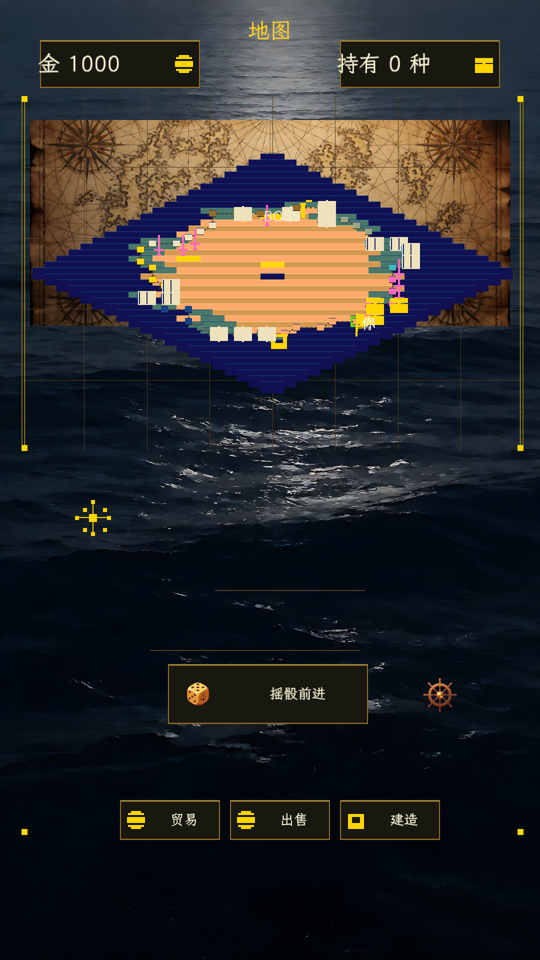
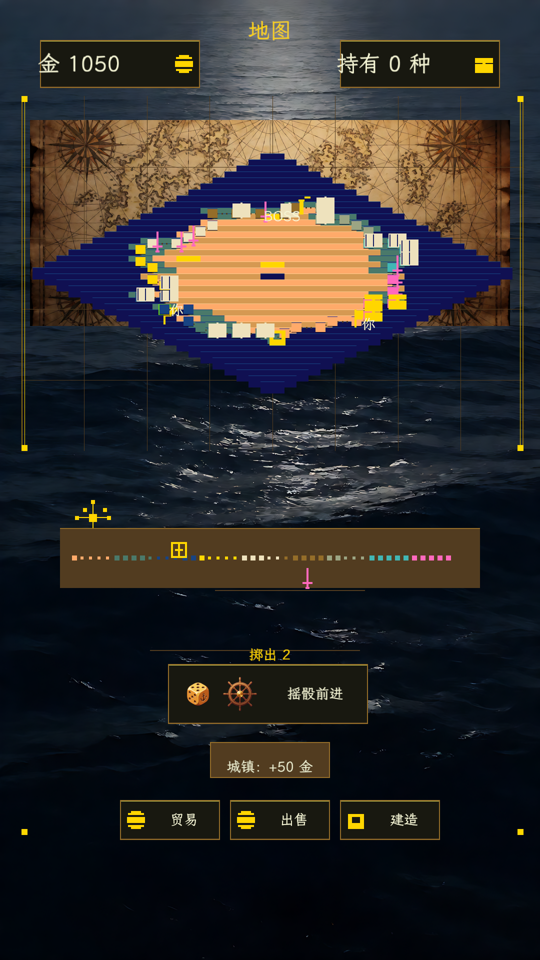
ui: S19.7 主地图版面整改（D1~D5 全清）+ 9 分区色板收敛单一事实源
D1 画布贴合：新增航程条（main_map.voyage_bar = 赛道摊平成进度条：brass_dark 底板 + 黄铜槽 + 每格分区色点 + 玩家罗盘 + BOSS 剑标），填掉 y900~1300 中段空区（v3.5 §3 处方：进度条 + 目的地标记）。

D2 赛道可读性：落格标记 14×14→20×20、类型图标 22→28。D3 提示条底板：brass_dark 底板 + 黄铜边框（宽度随文字自适应），中心移到 y1520（避开摇骰按钮下沿 1448 与命令盘 1600）。D4 骰子按钮构图：骰子(360,1352)+舵轮(444,1352) 相邻成组，标签(536,1328,190,120)。D5 出图带状态：ti-engine 新增 --spin=N（seed=42 可复现）+ GameApp::hold_board_toast()（提示条按帧衰减，截图捕获帧受异步贴图加载影响 ≫120 帧 ⇒ 出图里已过期）。

根因（排障实录）：提示条'没画'是误判 —— 底板色 panel_warm = RGB565(24,24,16) 与深海底图同色 ⇒ 底板等于隐形；改 brass_dark(82,60,32) 才真正生效（航程条同病同治）。附带：9 分区色板 GROUP_TOKENS 两处重复 → chrome::group_color_token 单一事实源；提示条绘制从 render_track(101行) 拆出 render_board_toast。坐标表 08_layout_design.md 同步 3 行 + gate 22 项 0 failure

diff --git a/crates/ti-app/src/scenes/main_map.rs b/crates/ti-app/src/scenes/main_map.rs
@@ -426,6 +426,9 @@ impl Scene for MainMapScene {
         // S19：环岛赛道（路径连线 + 空间标记 + 骰子数 + 落格提示条）
         render_track(host, &layout, gw, &mut entity_texts);
 
+        // S19.7：航程条（赛道摊平成进度条：玩家位置 + BOSS 目的地 + 特殊格标记）
+        chrome::voyage_bar(host, "main_map");
+
         // 第二遍：实体标签（28px 提示档，QA142 全部文本最上层）
         for (x, y, lbl) in &entity_texts {
             host.draw_hint_text(lbl, *x, *y, chrome::COLOR_TEXT_ON_PARCH);
@@ -446,17 +449,8 @@ fn render_track(
     entity_texts: &mut Vec<(i32, i32, &str)>,
 ) {
     // 9 分区配色（对齐原版地形类别码 1..9；theme 令牌缺失 = 金暖色兜底）
-    const GROUP_TOKENS: [&str; 9] = [
-        "land_sand",
-        "reef",
-        "sea_shallow",
-        "gold_warm",
-        "moon_pale",
-        "brass",
-        "secondary",
-        "hilite",
-        "danger",
-    ];
+    // S19.7 D2 收敛：分区→令牌表单一事实源 = `chrome::group_color_token`（此前本文件与
+    // `chrome.rs` 各抄一份 ⇒ 改配色必漏一处）。
     let spaces = host.board_spaces();
     if spaces.len() < 2 {
         return;
@@ -464,8 +458,7 @@ fn render_track(
     let (tw, th) = chrome::iso_tile_fit(layout, gw);
     let theme = host.theme().clone();
     let group_color = |g: u8| -> u16 {
-        let idx = ((usize::from(g)).saturating_sub(1)).min(GROUP_TOKENS.len() - 1);
-        theme.by_name(GROUP_TOKENS[idx]).unwrap_or(chrome::COLOR_GOLD_WARM)
+        theme.by_name(chrome::group_color_token(g)).unwrap_or(chrome::COLOR_GOLD_WARM)
     };
     // 路径连线（先画线，再画标记，标记盖在线上）
     let centers: Vec<(i32, i32)> = spaces
@@ -493,13 +486,13 @@ fn render_track(
             );
         }
     }
-    // 空间标记 + 特殊格图标
+    // 空间标记 + 特殊格图标（S19.7 D2：标记 14×14 → 20×20、图标 22 → 28，提升可读性）
     for (i, sp) in spaces.iter().enumerate() {
         let (cx, cy) = centers[i];
         let color = group_color(sp.group);
-        host.fill_rect(cx - 7, cy - 7, 14, 14, color);
-        host.fill_rect(cx - 7, cy - 7, 14, 1, chrome::COLOR_BEVEL_HI);
-        host.fill_rect(cx - 7, cy + 6, 14, 1, chrome::COLOR_BEVEL_SHADOW);
+        host.fill_rect(cx - 10, cy - 10, 20, 20, color);
+        host.fill_rect(cx - 10, cy - 10, 20, 1, chrome::COLOR_BEVEL_HI);
+        host.fill_rect(cx - 10, cy + 9, 20, 1, chrome::COLOR_BEVEL_SHADOW);
         let icon = match sp.kind {
             SpaceKind::Start => Some(("flag", chrome::COLOR_GOLD_WARM)),
             SpaceKind::Port => Some(("beacon", chrome::COLOR_GOLD_WARM)),
@@ -511,7 +504,7 @@ fn render_track(
             SpaceKind::Plain => None,
         };
         if let Some((name, tint)) = icon {
-            chrome::entity_icon(host, name, cx - 11, cy - 23, 22, tint);
+            chrome::entity_icon(host, name, cx - 14, cy - 30, 28, tint);
         }
         // BOSS / 起点 标签（全部文本最上层，QA142）
         match sp.kind {
@@ -534,10 +527,33 @@ fn render_track(
         host.draw_hint_text(&roll_str, rx, 1296, chrome::COLOR_GOLD_WARM);
     }
     // 落格提示条（按钮下方，`board_toast` 过期 = `None`）
-    if let Some(toast) = host.board_toast() {
-        let tx = 540 - host.shell().hint_text_width_px(&toast) / 2;
-        host.draw_hint_text(&toast, tx, 1470, chrome::COLOR_TEXT_ON_PARCH);
-    }
+    render_board_toast(host);
+}
+
+/// 落格提示条（S19.7 D3）：加**底板**（`brass_dark` + 黄铜边）——原实现直接画字飘在海面上，
+/// 对比度不足（其它 HUD 元素都有底板）；底板宽度按文字宽度自适应，8pt 栅格对齐。
+/// 纵向位置 1520（面板 1484..1556）：在摇骰按钮下沿 1448 与命令盘上沿 1600 之间，不重叠。
+fn render_board_toast(host: &mut dyn SceneHost) {
+    let Some(toast) = host.board_toast() else {
+        return;
+    };
+    let tw = host.shell().hint_text_width_px(&toast);
+    let pad = 24;
+    let panel_w = (tw + pad * 2).max(240);
+    let panel_h = 72;
+    let px = 540 - panel_w / 2;
+    let py = 1520 - panel_h / 2;
+    let theme = host.theme().clone();
+    // 底板用 `brass_dark`（`panel_warm` 在深海底上≈隐形 —— RGB565 (24,24,16) 与底图同色）
+    let panel = theme.by_name("brass_dark").unwrap_or(chrome::COLOR_GOLD_WARM);
+    let brass = theme.by_name("brass").unwrap_or(chrome::COLOR_GOLD_WARM);
+    host.fill_rect(px, py, panel_w, panel_h, panel);
+    host.fill_rect(px, py, panel_w, 2, brass);
+    host.fill_rect(px, py + panel_h - 2, panel_w, 2, brass);
+    host.fill_rect(px, py, 2, panel_h, brass);
+    host.fill_rect(px + panel_w - 2, py, 2, panel_h, brass);
+    let tx = 540 - tw / 2;
+    host.draw_hint_text(&toast, tx, 1520, chrome::COLOR_TEXT_ON_PARCH);
 }
 
 /// S18.9：等距棋盘绘制 —— **按地形取色**（`assets/data/terrain.json` 数据 → theme 令牌）。

diff --git a/crates/ti-app/src/scenes/chrome.rs b/crates/ti-app/src/scenes/chrome.rs
@@ -18,6 +18,7 @@ use ti_render::theme::Theme;
 
 use crate::scenes::{RenderHost, SceneHost};
 use ti_core::data::{IconDef, Primitive, icon_ids, ui_icons};
+use ti_core::rules::board::SpaceKind;
 
 // === 颜色常量重导出（从 Theme 默认值，兼容旧导入路径） ===
 
@@ -177,6 +178,8 @@ pub mod keys {
     pub const DECK_BUILD: &str = "deck_build";
     /// v3 「摇骰前进」主操作按钮（extra = `main_map.deck_spin`，`progression.md` §环岛赛道）。
     pub const DECK_SPIN: &str = "deck_spin";
+    /// v3 航程条矩形键（extra = `main_map.voyage_bar`，S19.7 航程进度条）。
+    pub const VOYAGE_BAR: &str = "voyage_bar";
     /// v2 HUD 经济按钮「贸易」矩形键（extra = `main_map.hud_trade`）。
     pub const HUD_TRADE: &str = "hud_trade";
     /// v2 HUD 经济按钮「出售」矩形键（extra = `main_map.hud_sell`）。
@@ -305,6 +308,86 @@ pub fn world_canvas_frame(host: &mut dyn SceneHost, scene_id: &str) {
     }
     let theme = host.theme().clone();
     with_canvas(host, |c| ti_render::shell::world_canvas_frame(c, &theme, rc.x, rc.y, rc.w, rc.h));
+}
+
+/// 分区号 → 主题色令牌（9 分区配色，对齐原版地形类别码 1..9；`legacy/docs/facts/map.md` F-308）。
+///
+/// 单一事实源（S19.7 D2 收敛）：赛道标记（`main_map.rs`）与航程条（`chrome::voyage_bar`）共用本表
+/// （此前两处各抄一份 ⇒ 改配色必漏一处）。
+#[must_use]
+pub fn group_color_token(group: u8) -> &'static str {
+    const TOKENS: [&str; 9] = [
+        "land_sand",
+        "reef",
+        "sea_shallow",
+        "gold_warm",
+        "moon_pale",
+        "brass",
+        "secondary",
+        "hilite",
+        "danger",
+    ];
+    let i = (usize::from(group).saturating_sub(1)).min(TOKENS.len() - 1);
+    TOKENS[i]
+}
+
+/// S19.7 航程条（`main_map.voyage_bar`）：把环岛赛道**摊平成一条进度条**，
+/// 显示玩家在岛上的位置 + BOSS 目的地 + 特殊格标记。
+///
+/// 业务依据（`docs/business/progression.md` §落格节奏 / §BOSS 触发规则）：
+/// 赛道 = 岛屿外环的有序空间序列；本条 = 「绕岛进度」的可视化载体
+/// （v3.5 §3「空出来的下方空间 → 放航程条（进度条 + 目的地标记）」）。
+///
+/// 画法：底板（`brass_dark`，`panel_warm` 在深海底上隐形）+ 一条黄铜槽 + 每格一个小点（按分区色）+
+/// 玩家标记（`compass` 图标，暖金）+ BOSS 标记（`sword` 图标，danger 色）。
+/// 无赛道（`board_spaces` 空）/ 键缺失 = 不画。
+pub fn voyage_bar(host: &mut dyn SceneHost, scene_id: &str) {
+    let layout = scene_layout(scene_id);
+    let Some(rect) = layout.extra.get(keys::VOYAGE_BAR) else {
+        return;
+    };
+    if rect.w <= 0 || rect.h <= 0 {
+        return;
+    }
+    let spaces = host.board_spaces();
+    if spaces.len() < 2 {
+        return;
+    }
+    let count = i32::try_from(spaces.len()).unwrap_or(0);
+    let player_idx = i32::try_from(host.board_index()).unwrap_or(0).min(count - 1);
+    let theme = host.theme().clone();
+    // 底板用 `brass_dark`（`panel_warm` 在深海底上≈隐形 —— RGB565 (24,24,16) 与底图同色）
+    let panel = theme.by_name("brass_dark").unwrap_or(COLOR_GOLD_WARM);
+    let brass = theme.by_name("brass").unwrap_or(COLOR_GOLD_WARM);
+    let brass_dark = theme.by_name("brass_dark").unwrap_or(COLOR_GOLD_WARM);
+    let danger = crate::menu_shell::COLOR_DANGER;
+
+    // 底板 + 槽（8pt 栅格：x/y/w/h 已整除）
+    host.fill_rect(rect.x, rect.y, rect.w, rect.h, panel);
+    host.fill_rect(rect.x, rect.y, rect.w, 2, brass);
+    host.fill_rect(rect.x, rect.y + rect.h - 2, rect.w, 2, brass_dark);
+    let track_y = rect.y + rect.h / 2;
+    let pad = 24;
+    let inner_w = rect.w - pad * 2;
+    host.fill_rect(rect.x + pad, track_y - 3, inner_w, 6, brass_dark);
+
+    // 每格一点（按分区色，特殊格加亮）
+    let step = inner_w / count.max(1);
+    for (i, sp) in spaces.iter().enumerate() {
+        let x = rect.x + pad + i32::try_from(i).unwrap_or(0) * step;
+        let c = theme.by_name(group_color_token(sp.group)).unwrap_or(COLOR_GOLD_WARM);
+        let special = !matches!(sp.kind, SpaceKind::Plain);
+        let dot = if special { 10 } else { 6 };
+        host.fill_rect(x, track_y - dot / 2, dot, dot, c);
+    }
+
+    // 玩家标记（暖金 compass）+ BOSS 标记（danger sword）
+    let player_x = rect.x + pad + player_idx * step;
+    entity_icon(host, "compass", player_x - 14, track_y - 40, 28, COLOR_GOLD_WARM);
+    if let Some(boss_i) = spaces.iter().position(|s| s.kind == SpaceKind::Boss) {
+        let boss_x = rect.x + pad + i32::try_from(boss_i).unwrap_or(0) * step;
+        entity_icon(host, "sword", boss_x - 12, track_y + 14, 24, danger);
+    }
 }
 
 /// v3 底部命令盘按钮（`main_map`）：读 `<key>` 矩形（`deck_trade`/`deck_sell`/`deck_build`），

diff --git a/crates/ti-engine/src/bin/treasure_bevy.rs b/crates/ti-engine/src/bin/treasure_bevy.rs
@@ -593,10 +593,27 @@ fn main() {
         .skip(1)
         .find_map(|a| a.strip_prefix("--scene=").map(str::to_owned))
         .unwrap_or_else(|| "index".to_owned());
+    // S19.7 D5：出图带状态（`--spin=N`）—— 摇 N 次骰后再截图 ⇒ 落格提示条 / 航程条可见
+    // （静态出图不含运行时状态，提示条此前无出图证据）。
+    let spin_n = std::env::args()
+        .skip(1)
+        .find_map(|a| a.strip_prefix("--spin=").and_then(|v| v.parse::<u32>().ok()))
+        .unwrap_or(0);
     let mut game = GameApp::with_upload_mode(WIN_W as f32, WIN_H as f32, UploadMode::Partial);
     load_resources(&mut game);
     if scene_id != "index" {
         ti_app::forward_nav::navigate(&mut game, &scene_id);
+    }
+    if spin_n > 0 {
+        // 固定种子（同 S18.4 selftest 口径 seed=42）⇒ 出图可复现（否则每次落点不同，
+        // 可能落在无事件的普通格 ⇒ 提示条时有时无，验收证据不稳定）。
+        game.set_rng_seed(42);
+        for _ in 0..spin_n {
+            game.handle(ti_app::GameInput::Spin);
+        }
+        // S19.7 D5：提示条按帧衰减，而离屏截图的实际捕获帧受贴图异步加载影响（≫120 帧）
+        // ⇒ 出图里提示条已过期。这里顶住衰减，保证出图含提示条（验收证据）。
+        game.hold_board_toast();
     }
     if !selftest {
         // S18.7a: live path = draw list (Bevy entities); the scene code is unchanged.

diff --git a/crates/ti-app/src/game_app.rs b/crates/ti-app/src/game_app.rs
@@ -1455,6 +1455,17 @@ impl GameApp {
         }
     }
 
+    /// 保持落格提示条常驻（出图取证用）。
+    ///
+    /// S19.7 D5：落格提示条按帧衰减（120 帧），而离屏截图的**实际捕获帧**受贴图异步
+    /// 加载影响（远大于 120 帧）⇒ 提示条在出图里已过期、无法作为验收证据。
+    /// 本方法把衰减计数顶到极大值，使提示条在截图帧仍在（只影响出图模式）。
+    pub fn hold_board_toast(&mut self) {
+        if self.board_toast.is_some() {
+            self.board_toast_ticks = u32::MAX;
+        }
+    }
+
     /// 渲染当前场景：场景模块绘制（`scenes/*.rs::render`），纯代码绘制
     /// （`08_render_arch.md` 契约 2：S15.4 起无 legacy 精灵层叠加）。
     ///

diff --git a/docs/business/08_layout_design.md b/docs/business/08_layout_design.md
@@ -174,7 +174,9 @@
 | 命令盘 · 贸易（v3） | `deck_trade {x:240, y:1600, w:200, h:80}` | P-UW4-3 底部命令盘：`chrome::deck_button`（面板 + 图标 + 28px 标签）；点按 = 买商品 1（与键盘 T / v2 `hud_trade` 同语义） |
 | 命令盘 · 出售（v3） | `deck_sell {x:460, y:1600, w:200, h:80}` | 命令盘第 2 键 = 全卖商品 1（键盘 Y / v2 `hud_sell`） |
 | 命令盘 · 建造（v3） | `deck_build {x:680, y:1600, w:200, h:80}` | 命令盘第 3 键 = 造 Castle（键盘 B / v2 `hud_build`） |
-| 摇骰前进 · 主操作（S19） | `deck_spin {x:336, y:1328, w:400, h:120}` | S19 环岛赛道主操作：摇骰 → 沿赛道前进 N 格（`rules::board`，`progression.md` §环岛赛道）；面板 + 骰子/舵轮图标（`assets/ui/dice.png`/`helm.png`）+「摇骰前进」标签（`scene.main_map.hud.spin`）；点按 / 空格 = `GameInput::Spin`；8pt 栅格（x336=42×8、y1328=166×8） |
+| 摇骰前进 · 主操作（S19） | `deck_spin {x:336, y:1328, w:400, h:120}` | S19 环岛赛道主操作：摇骰 → 沿赛道前进 N 格（`rules::board`，`progression.md` §环岛赛道）；面板 + 骰子/舵轮图标（`assets/ui/dice.png`/`helm.png`）+「摇骰前进」标签（`scene.main_map.hud.spin`）；点按 / 空格 = `GameInput::Spin`；8pt 栅格（x336=42×8、y1328=166×8）；S19.7 构图：骰子 `dice.png` (360,1352,72,72) + 舵轮 `helm.png` (444,1352,72,72) **相邻成组**（原 helm 在右端 844，中间 280px 空档像两张不相干的图），标签 (536,1328,190,120) |
+| 航程条（S19.7） | `voyage_bar {x:120, y:1056, w:840, h:120}` | S19.7 D1：把环岛赛道**摊平成进度条**（v3.5 §3「空出来的下方空间 → 放航程条（进度条 + 目的地标记）」）：底板 `brass_dark` + 黄铜槽 + 每格一点（分区色，特殊格加亮）+ 玩家标记（`compass` 暖金）+ BOSS 标记（`sword` danger）；底板色**不用 `panel_warm`**（RGB565 (24,24,16) 与深海底图同色 ⇒ 隐形）；8pt 栅格（x120=15×8、y1056=132×8、w840=105×8、h120=15×8） |
+| 落格提示条（S19.7） | 运行时绘制，中心 y=1520（面板 1484..1556） | S19.7 D3：提示条加 `brass_dark` 底板 + 黄铜边框（宽度按文字自适应，最小 240；`panel_warm` 在深海上隐形）；纵向落在摇骰按钮下沿 1448 与命令盘上沿 1600 之间；骰点提示「掷出 N」在 y=1296 |
 | 画布实体比例（v3） | `canvas_entities {player:100, landmark:80, boss:96}` | 实体边长 = `board_fit.tw` × 百分比（100/80/96）：15 格图 tw=32 → 32/26/31；20 格图 tw=24 → 24/19/23；缺席回退 v2 `player.size` 等（QA106） |
 | 视觉重心锚（v3） | `focus_anchor {bbox:{x:43, y:192, w:1004, h:710}}` | 场景叙事 DSL 重心区（`ui_schema/scene_manifest_v3.json` main_map `focus.bbox_pct{4,10,93,77}` × (1080,1920)）；gate 第 22 项 `check_scene_narrative` N8 对账锚点 |
 

diff --git a/docs/release.md b/docs/release.md
@@ -186,7 +186,7 @@ cargo run -q -p ti-app --features headless --bin treasure-headless -- --script t
 ## 验收
 
 - `scripts/gate.ps1` 全项绿（门禁项数与口径**单一事实源**见 `docs/parity.md` §代码质量门禁；doccheck / doccheck2 / 台账三方对账 / 业务闭环 / 模块并行 / 飞轮开轮必读 / 视觉回归等独立门禁项已陆续并入，逐项编号见 parity.md，不再在此硬编码）
-- `plan/ledger.yaml` 184 任务（163 verified；台账计数随 S8–S19 演进，`doccheck` 断言锁定防漂移）（台账实时值，`cargo run -q -p ti-tools --bin ledger` 实测）
+- `plan/ledger.yaml` 184 任务（164 verified；台账计数随 S8–S19 演进，`doccheck` 断言锁定防漂移）（台账实时值，`cargo run -q -p ti-tools --bin ledger` 实测）
 - S5.1 全链路 7 项断言（`tests/game_app_flow.rs`）+ S5.2 headless 全流程 16/16 步（P3-3）
   + S5.3 渲染对齐 5 项（P4-1，`tests/render_parity.rs`）全绿
 - 产物 sha256 记录于 `evidence/S4.4.log` 与 `evidence/S5.4.log`
